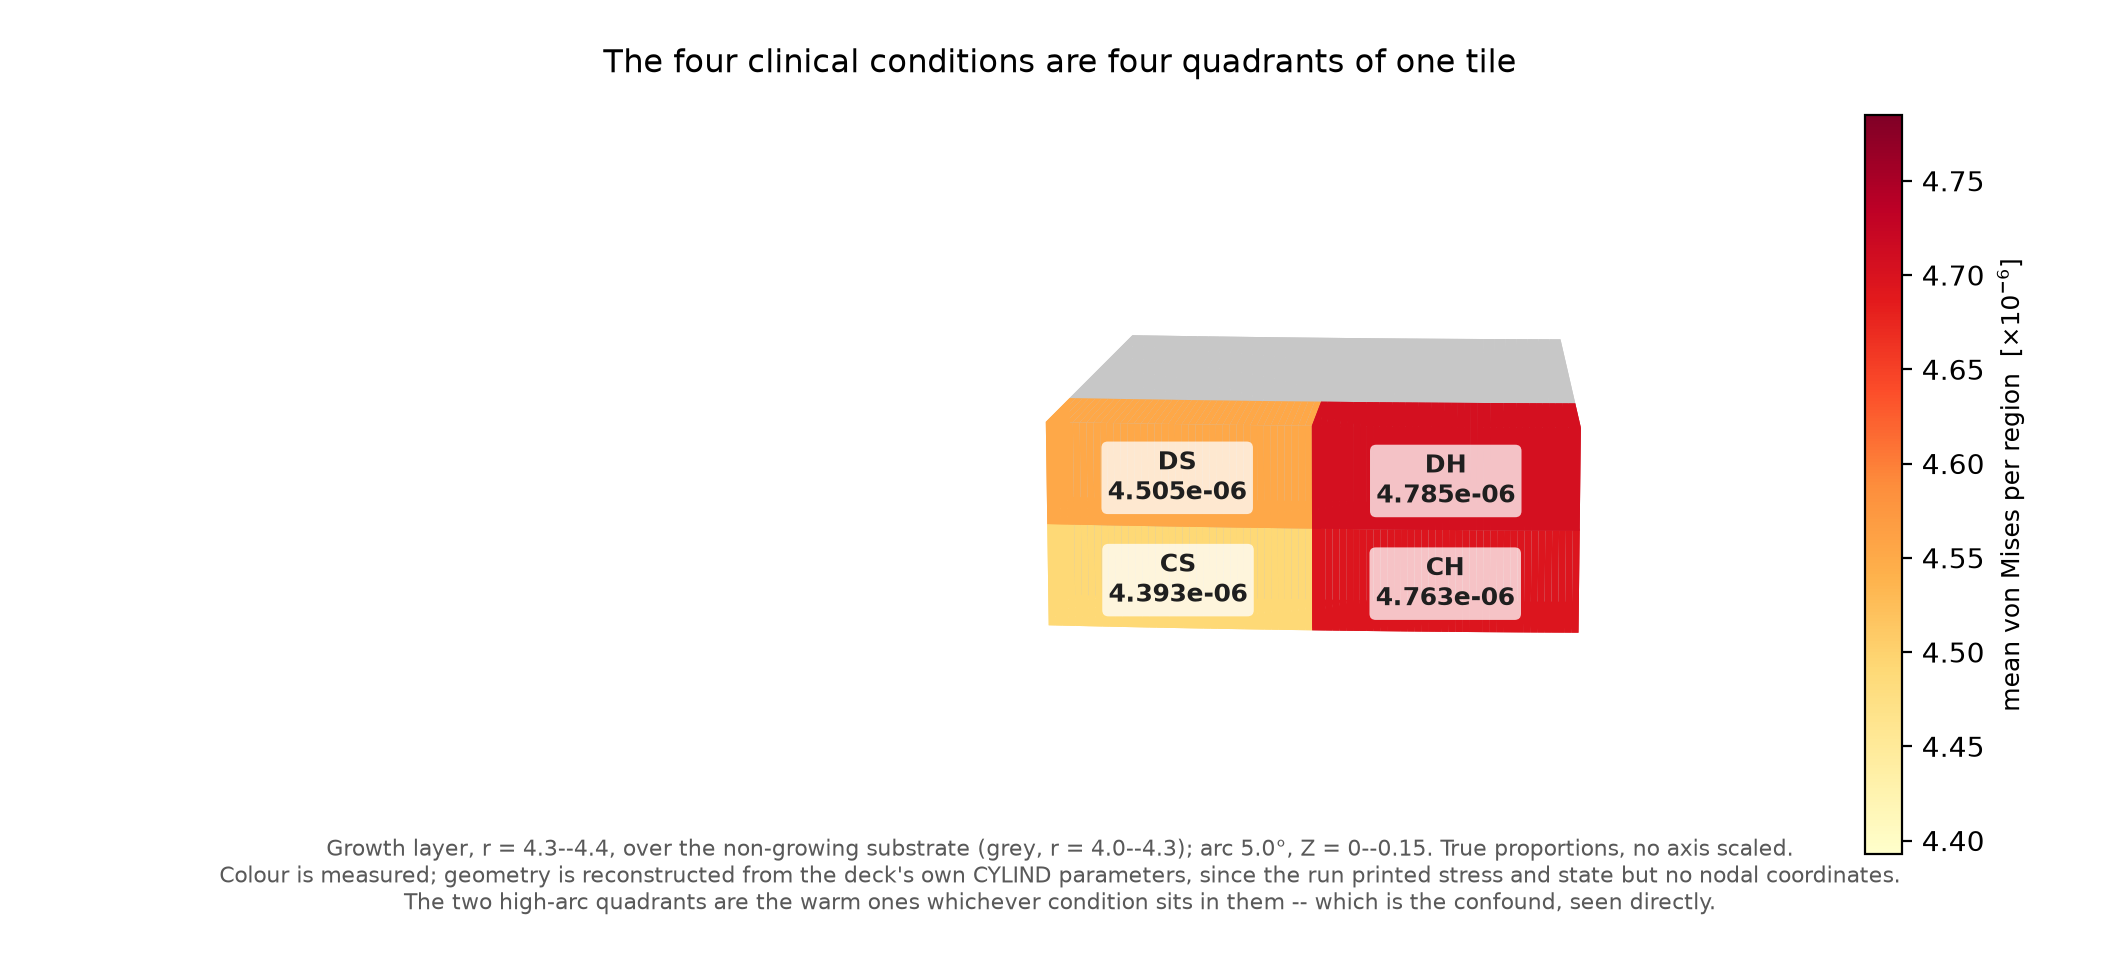
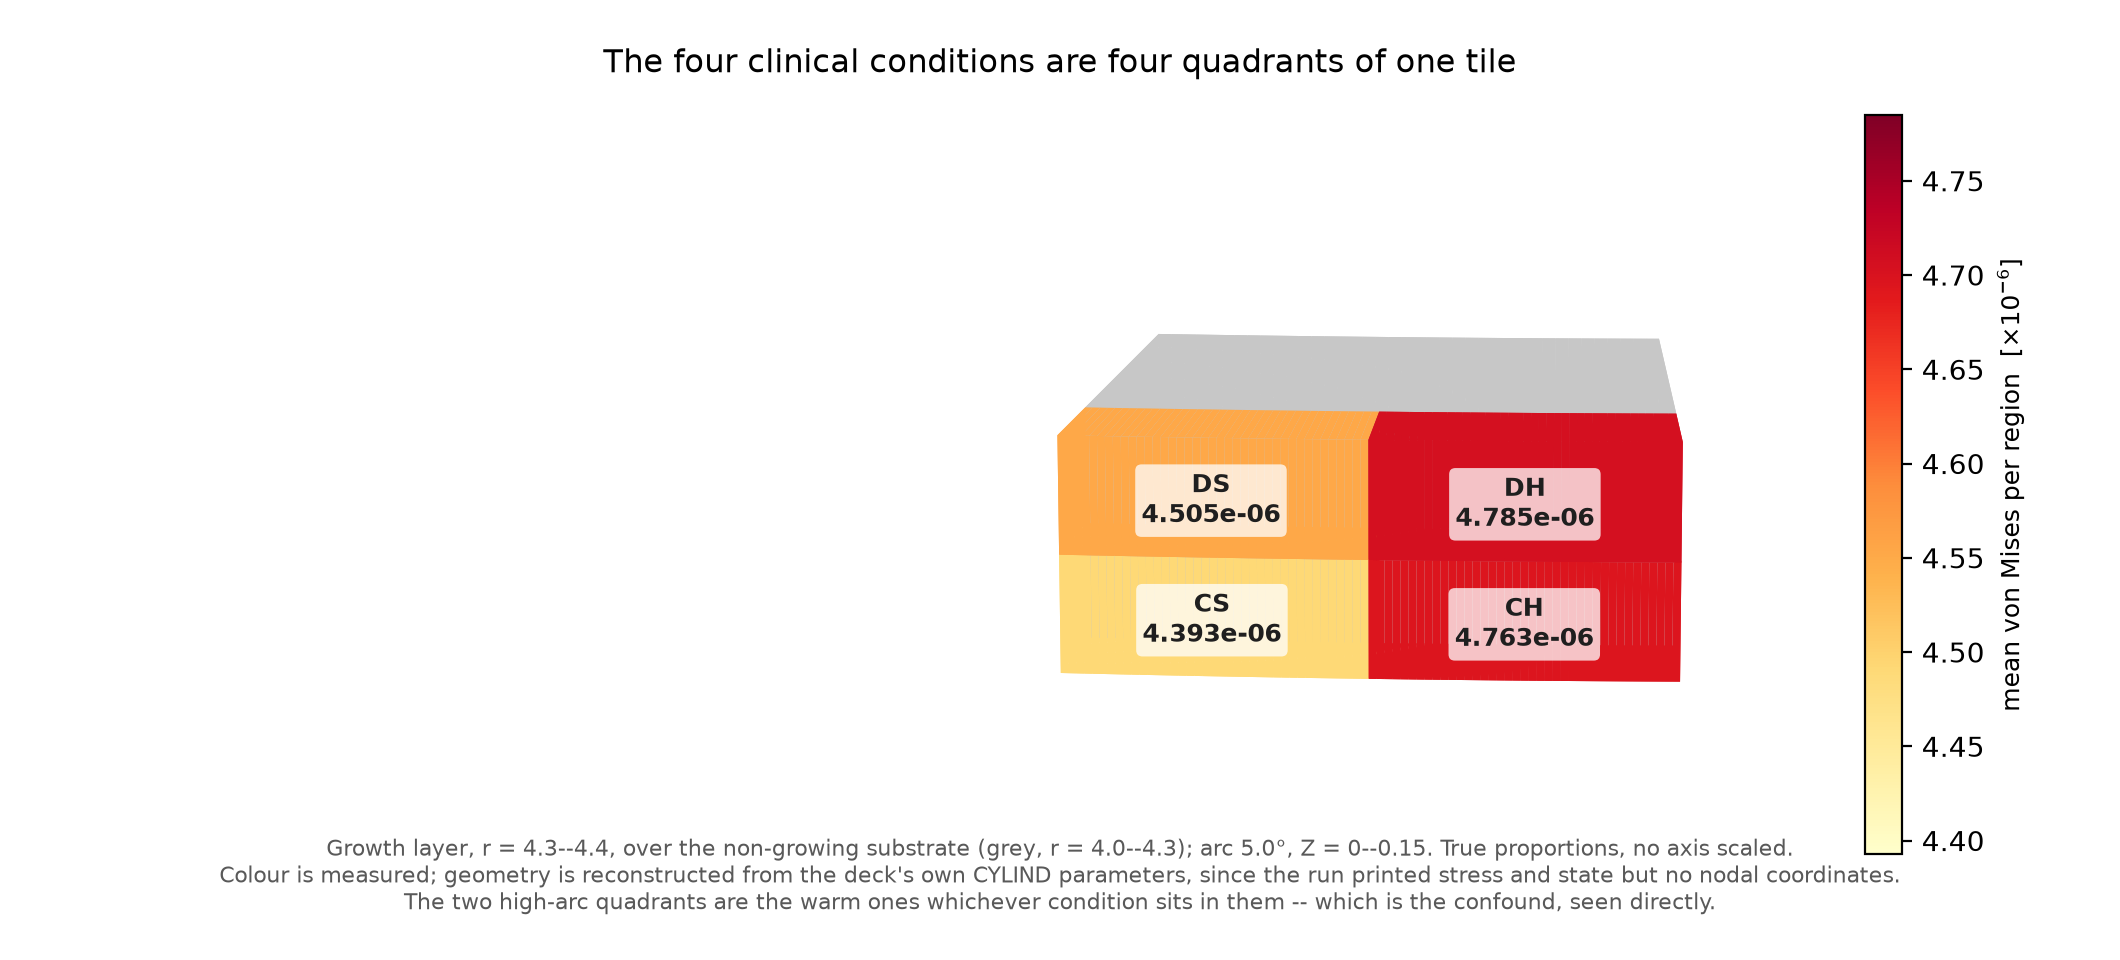
Bring the Oliver deck up to the 1 October meeting
Two frames and a footer fix, four days out.

The deck stopped at "4-region mesh, all four conditions -- exact match",
which is the growth side. It did not say what the run did to the stress, or
that the run cannot be read as a condition comparison: the four conditions
are the four quadrants of one tile, so condition is confounded with position.
The stress order does not follow the growth order, and high-arc sits 7.3%
above low-arc against a total spread of 8.9%. Better that Oliver hears that
from us than works it out from the figure.

The second frame is the one with something to ask for. The ecology bridge is
wired into his call site and runs on his real NEM deck with 0 errors, and the
element that used to distort silently now triggers the guard's cut-back
instead -- but it cannot complete, because the ecology integrator refuses
steps above 1e-4 and his deck runs at TIME INC = 0.1, with the stepping set
by Workbench-compiled solution controls rather than an editable NSUBST.
ANSYS's own bisection does not reach a 1000x reduction. So the ask is
concrete: the same model as an editable deck, or the solution controls
exposed. Added as a fourth question too.

The figure needed a slide variant. Cropping the thesis one was not available
-- its caption spans the full width, so trimming the dead left margin would
cut the caption text -- so plot_conditions_3d.py grew --no-caption, which
drops the caption and the suptitle (the frame title says it), uses a smaller
[…]

Changed region(s): [[0.467, 0.3438, 0.8094, 0.7188], [0.5292, 0.3438, 0.5604, 0.375]]

diff --git a/ansys_usermat/apdl/plot_conditions_3d.py b/ansys_usermat/apdl/plot_conditions_3d.py
@@ -58,13 +58,29 @@ def _solid(ax, r0, r1, th0, th1, z0, z1, **kw):
         surf(R * np.cos(T), R * np.sin(T), np.full_like(T, zz))
 
 
-def plot(mean, out):
+def _trim(path, pad=12):
+    """Crop uniform white margins, leaving a small pad."""
+    from PIL import Image, ImageChops
+    im = Image.open(path).convert("RGB")
+    bg = Image.new("RGB", im.size, (255, 255, 255))
+    box = ImageChops.difference(im, bg).getbbox()
+    if not box:
+        return
+    l, t, r, b = box
+    im.crop((max(l - pad, 0), max(t - pad, 0),
+             min(r + pad, im.width), min(b + pad, im.height))).save(path)
+
+
+def plot(mean, out, caption=True):
     import matplotlib
     matplotlib.use("Agg")
     import matplotlib.pyplot as plt
     import numpy as np
 
-    fig = plt.figure(figsize=(10.6, 4.8))
+    # Without the caption the canvas can be narrower, which removes the dead
+    # margin the caption's own width was forcing. Cropping the wide version
+    # instead would cut the caption text, which spans the full width.
+    fig = plt.figure(figsize=(10.6, 4.8) if caption else (7.4, 3.1))
     ax = fig.add_subplot(111, projection="3d")
 
     lo, hi = min(mean.values()), max(mean.values())
@@ -110,6 +126,12 @@ def plot(mean, out):
     cb = fig.colorbar(sm, ax=ax, fraction=0.026, pad=0.10)
     cb.set_label(r"mean von Mises per region  [$\times 10^{-6}$]", fontsize=9)
 
+    # The 3D box is very flat in x, so matplotlib centres a bounding box whose
+    # visible content sits well to one side, leaving a wide dead margin. Force
+    # the axes to fill the canvas; do it after the colorbar, which shrinks it.
+    ax.set_position([-0.06, 0.02 if caption else 0.0,
+                     0.92, 0.90 if caption else 1.0])
+
     # mplot3d does not depth-sort text against surfaces, so a 3D label sits
     # behind whichever face it lands on and zorder does not help. Project each
     # quadrant centre to display coordinates and draw the label on the figure
@@ -121,24 +143,33 @@ def plot(mean, out):
         fx, fy = fig.transFigure.inverted().transform(
             ax.transData.transform((px, py)))
         fig.text(fx, fy, f"{code}\n{v:.3e}", ha="center", va="center",
-                 fontsize=9, weight="bold", color="0.12",
+                 fontsize=9 if caption else 8, weight="bold", color="0.12",
                  bbox=dict(boxstyle="round,pad=0.25", fc="white", ec="none",
                            alpha=0.75))
 
 
-    fig.suptitle("The four clinical conditions are four quadrants of one tile",
-                 fontsize=11.5, y=0.95)
-    fig.text(0.5, 0.045,
-             f"Growth layer, r = {R_MID}--{R_OUT}, over the non-growing "
-             f"substrate (grey, r = {R_IN}--{R_MID}); arc {ARC}°, "
-             f"Z = 0--{LEN}. True proportions, no axis scaled.\n"
-             "Colour is measured; geometry is reconstructed from the deck's own "
-             "CYLIND parameters, since the run printed stress and state but no "
-             "nodal coordinates.\n"
-             "The two high-arc quadrants are the warm ones whichever condition "
-             "sits in them -- which is the confound, seen directly.",
-             ha="center", va="bottom", fontsize=8, color="0.35")
+    if caption:
+        # On a slide the frame title already says this.
+        fig.suptitle("The four clinical conditions are four quadrants of "
+                     "one tile", fontsize=11.5, y=0.95)
+    if caption:
+        fig.text(0.5, 0.045,
+                 f"Growth layer, r = {R_MID}--{R_OUT}, over the non-growing "
+                 f"substrate (grey, r = {R_IN}--{R_MID}); arc {ARC}°, "
+                 f"Z = 0--{LEN}. True proportions, no axis scaled.\n"
+                 "Colour is measured; geometry is reconstructed from the deck's own "
+                 "CYLIND parameters, since the run printed stress and state but no "
+                 "nodal coordinates.\n"
+                 "The two high-arc quadrants are the warm ones whichever condition "
+                 "sits in them -- which is the confound, seen directly.",
+                 ha="center", va="bottom", fontsize=8, color="0.35")
     fig.savefig(out, dpi=200)
+    if not caption:
+        # Safe only without the caption: the caption spans the full width, so
+        # cropping the wide version would cut its text. Here the dead margin
+        # is genuinely dead -- the flat 3D box leaves it and no axes position
+        # reclaims it.
+        _trim(out)
     print(f"wrote {out}")
 
 
@@ -149,6 +180,9 @@ def main(argv=None):
                     "growth_result_cylinder_ecology_4region_all_real_clsm.txt")
     ap.add_argument("-o", "--out", type=Path,
                     default=Path("assets/v222_conditions_3d.png"))
+    ap.add_argument("--no-caption", action="store_true",
+                    help="omit the explanatory block; for slides, where the "
+                         "speaker says it and the margin is worth more")
     a = ap.parse_args(argv)
 
     seqv, mats = parse(a.listing)
@@ -158,7 +192,7 @@ def main(argv=None):
         z = "high" if LAYOUT[m][4] else "low "
         print(f"  {LAYOUT[m][0]}  arc {t}  Z {z}  mean SEQV {mean[m]:.4e}")
     a.out.parent.mkdir(parents=True, exist_ok=True)
-    plot(mean, a.out)
+    plot(mean, a.out, caption=not a.no_caption)
     return 0
 
 

diff --git a/slides_1001_oliver.tex b/slides_1001_oliver.tex
@@ -20,7 +20,12 @@
 
 \title{Master's Thesis --- Update for Oliver}
 \subtitle{ANSYS/NEM ecology work since early September}
-\author{Keisuke Nishioka\\[4pt]
+% Short forms matter here: beamer's footline falls back to the full author
+% and institute, so without them every slide's footer reads
+% "Keisuke Nishioka[4pt] Institute of Continuum" -- the line break rendered
+% literally and the institute truncated.
+\author[Keisuke Nishioka]{Keisuke Nishioka}
+\institute[IKM, LUH]{%
 \small Institute of Continuum Mechanics (IKM), Leibniz Universit\"at Hannover\\
 \small Keio University}
 \date{1 October 2026}
@@ -117,6 +122,49 @@ substituted rather than silently misused.
 \end{frame}
 
 % --------------------------------------------------------
+\begin{frame}{...and what that run can, and cannot, be read as}
+\small Four different growth values (spread $1.106\times$), and the growth
+layer carries $15.2\times$ the von Mises of the non-growing substrate -- the
+stress is coming from the growth mechanism.
+\vspace{1pt}
+\begin{center}
+\includegraphics[width=0.40\linewidth]{assets/v222_conditions_3d_slide.png}
+\end{center}
+\vspace{-2pt}
+{\footnotesize But the four conditions are the four \emph{quadrants} of one
+tile -- condition is confounded with position. The stress order does not
+follow the growth order (DS: lowest $\alpha$, second-highest stress), and
+high-arc sits $7.3\,\%$ above low-arc against a total spread of $8.9\,\%$.
+\textbf{Not yet a condition comparison}: that needs the same region solved
+four times, not four regions once.}
+\end{frame}
+
+% --------------------------------------------------------
+\begin{frame}{One concrete ask: a deck whose time stepping I can set}
+\small The ecology bridge is also wired into \emph{your} call site
+(\texttt{prop(6)=kUseEcology}, ecology state in
+\texttt{ustatev(72:83)}, accumulated $\alpha$ in \texttt{ustatev(84)}).
+On your real NEM deck it links and runs with \textbf{0 errors}, and the
+element that previously distorted silently now correctly triggers the
+guard's cut-back request instead.
+\vspace{4pt}
+{\footnotesize It still cannot \emph{complete}, for one reason that is not
+about the material: the ecology integrator refuses steps above
+$\Delta t = 10^{-4}$ (measured -- it diverges above that), and the deck runs
+at \texttt{TIME INC} $=0.1$. ANSYS's own bisection does not reach the
+$\sim\!1000\times$ reduction needed, and the stepping comes from
+Workbench-compiled solution controls rather than an editable
+\texttt{NSUBST}.}
+\vspace{4pt}
+\begin{center}
+\colorbox{c3!12}{\parbox{0.88\linewidth}{\centering\small
+\textbf{Ask:} the same model as an editable input deck (or the solution
+controls exposed), so the step can be set. That is the last thing between
+here and the bridge running end-to-end in your framework.}}
+\end{center}
+\end{frame}
+
+% --------------------------------------------------------
 \begin{frame}{UserElement vs.\ UserMat: still open}
 \small The assignment says \emph{UserElement/UserMat}; this repo has a
 UserMat only -- it can't transport the ecology field spatially by itself.
@@ -144,6 +192,9 @@ residual for ecology transport, no template in ANSYS's own examples.}
         coupling-strength ceiling exists for the baseline one?
   \item UserElement vs.\ UserMat -- does the working assumption above
         still look right from your side?
+  \item Can the NEM model come as an editable deck (or with the solution
+        controls exposed)? That is the one blocker left for running the
+        ecology bridge to completion on your side.
 \end{enumerate}
 \end{frame}
 
